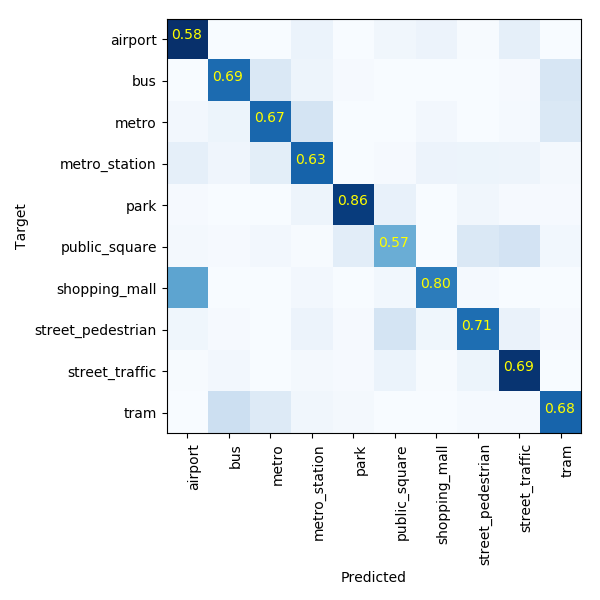
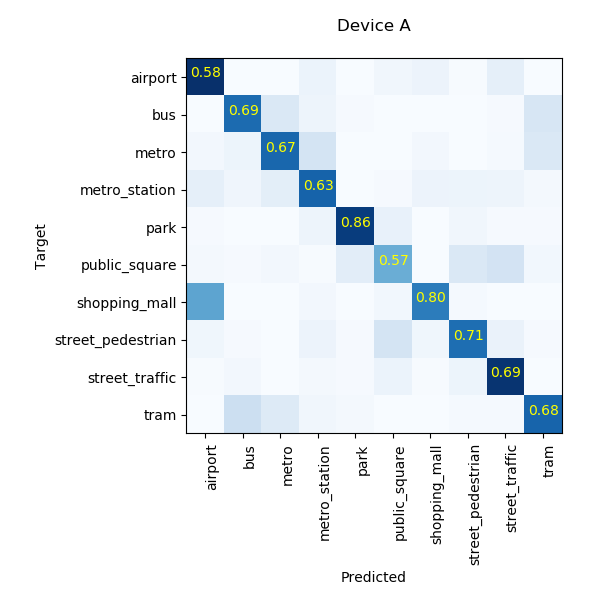
add fig

diff --git a/main.py b/main.py
@@ -256,7 +256,7 @@ def inference_validation(args):
         (output, target) = forward(model=model,
                                    gen=gen,
                                    data_type='validate',
-                                   devices=devices,
+                                   devices=device,
                                    max_iteration=-1,
                                    cuda=cuda)
 
@@ -279,6 +279,7 @@ def inference_validation(args):
         # Plot confusion matrix
         plot_confusion_matrix(
             confusion_matrix,
+            title='Device {}'.format(device.upper()), 
             labels=labels,
             values=class_wise_acc)
 

diff --git a/utilities.py b/utilities.py
@@ -177,7 +177,7 @@ def calculate_confusion_matrix(target, predict, classes_num):
     return confusion_matrix
 
 
-def plot_confusion_matrix(confusion_matrix, labels, values):
+def plot_confusion_matrix(confusion_matrix, title, labels, values):
     """Plot confusion matrix.
 
     Inputs:
@@ -205,6 +205,7 @@ def plot_confusion_matrix(confusion_matrix, labels, values):
     for n in range(len(values)):
         plt.text(n - 0.4, n, '{:.2f}'.format(values[n]), color='yellow')
 
+    plt.title(title)
     plt.xlabel('Predicted')
     plt.ylabel('Target')
     plt.tight_layout()

diff --git a/Readme.md b/Readme.md
@@ -32,18 +32,29 @@ Run the commands in runme.sh line by line, including:
 
 ### Result
 
-We apply a convolutional neural network on the log mel spectrogram feature to solve this task. Training takes around 60 ms / iteration on a GTX Titan X GPU. You may get results similar to:
+We apply a convolutional neural network on the log mel spectrogram feature to solve this task. Training takes around 100 ms / iteration on a GTX Titan X GPU. The model is trained for 3000 iterations.
 
 Subtask A:
 
-|               | Device A |
-|:-------------:|:--------:|
-| avg. accuracy |   68.2%  |
+|                   | Device A |
+|:-----------------:|:--------:|
+| averaged accuracy |   68.2%  |
 
 Confusion matrix:
 ![alt text](appendixes/subtask_a_confusion_matrix.png width="100")
 
-<img src="https://github.com/qiuqiangkong/dcase2018_task1/blob/dev/appendixes/subtask_a_confusion_matrix.png" width="400"><img src="https://github.com/qiuqiangkong/dcase2018_task1/blob/dev/appendixes/subtask_a_confusion_matrix.png" width="400">
+<img src="https://github.com/qiuqiangkong/dcase2018_task1/blob/dev/appendixes/subtask_a_confusion_matrix.png" width="600">
+
+Subtask B:
+
+|                   | Device A | Device B | Device C |
+|:-----------------:|:--------:|----------|----------|
+| averaged accuracy |   67.4%  | 59.4%    | 57.2%    |
+
+Confusion matrix:
+<img src="https://github.com/qiuqiangkong/dcase2018_task1/blob/dev/appendixes/subtask_a_confusion_matrix_device_a.png" width="500"><img src="https://github.com/qiuqiangkong/dcase2018_task1/blob/dev/appendixes/subtask_a_confusion_matrix_device_b.png" width="500">
+<img src="https://github.com/qiuqiangkong/dcase2018_task1/blob/dev/appendixes/subtask_a_confusion_matrix_device_c.png" width="500">
+
 
 ### Extra link
 
